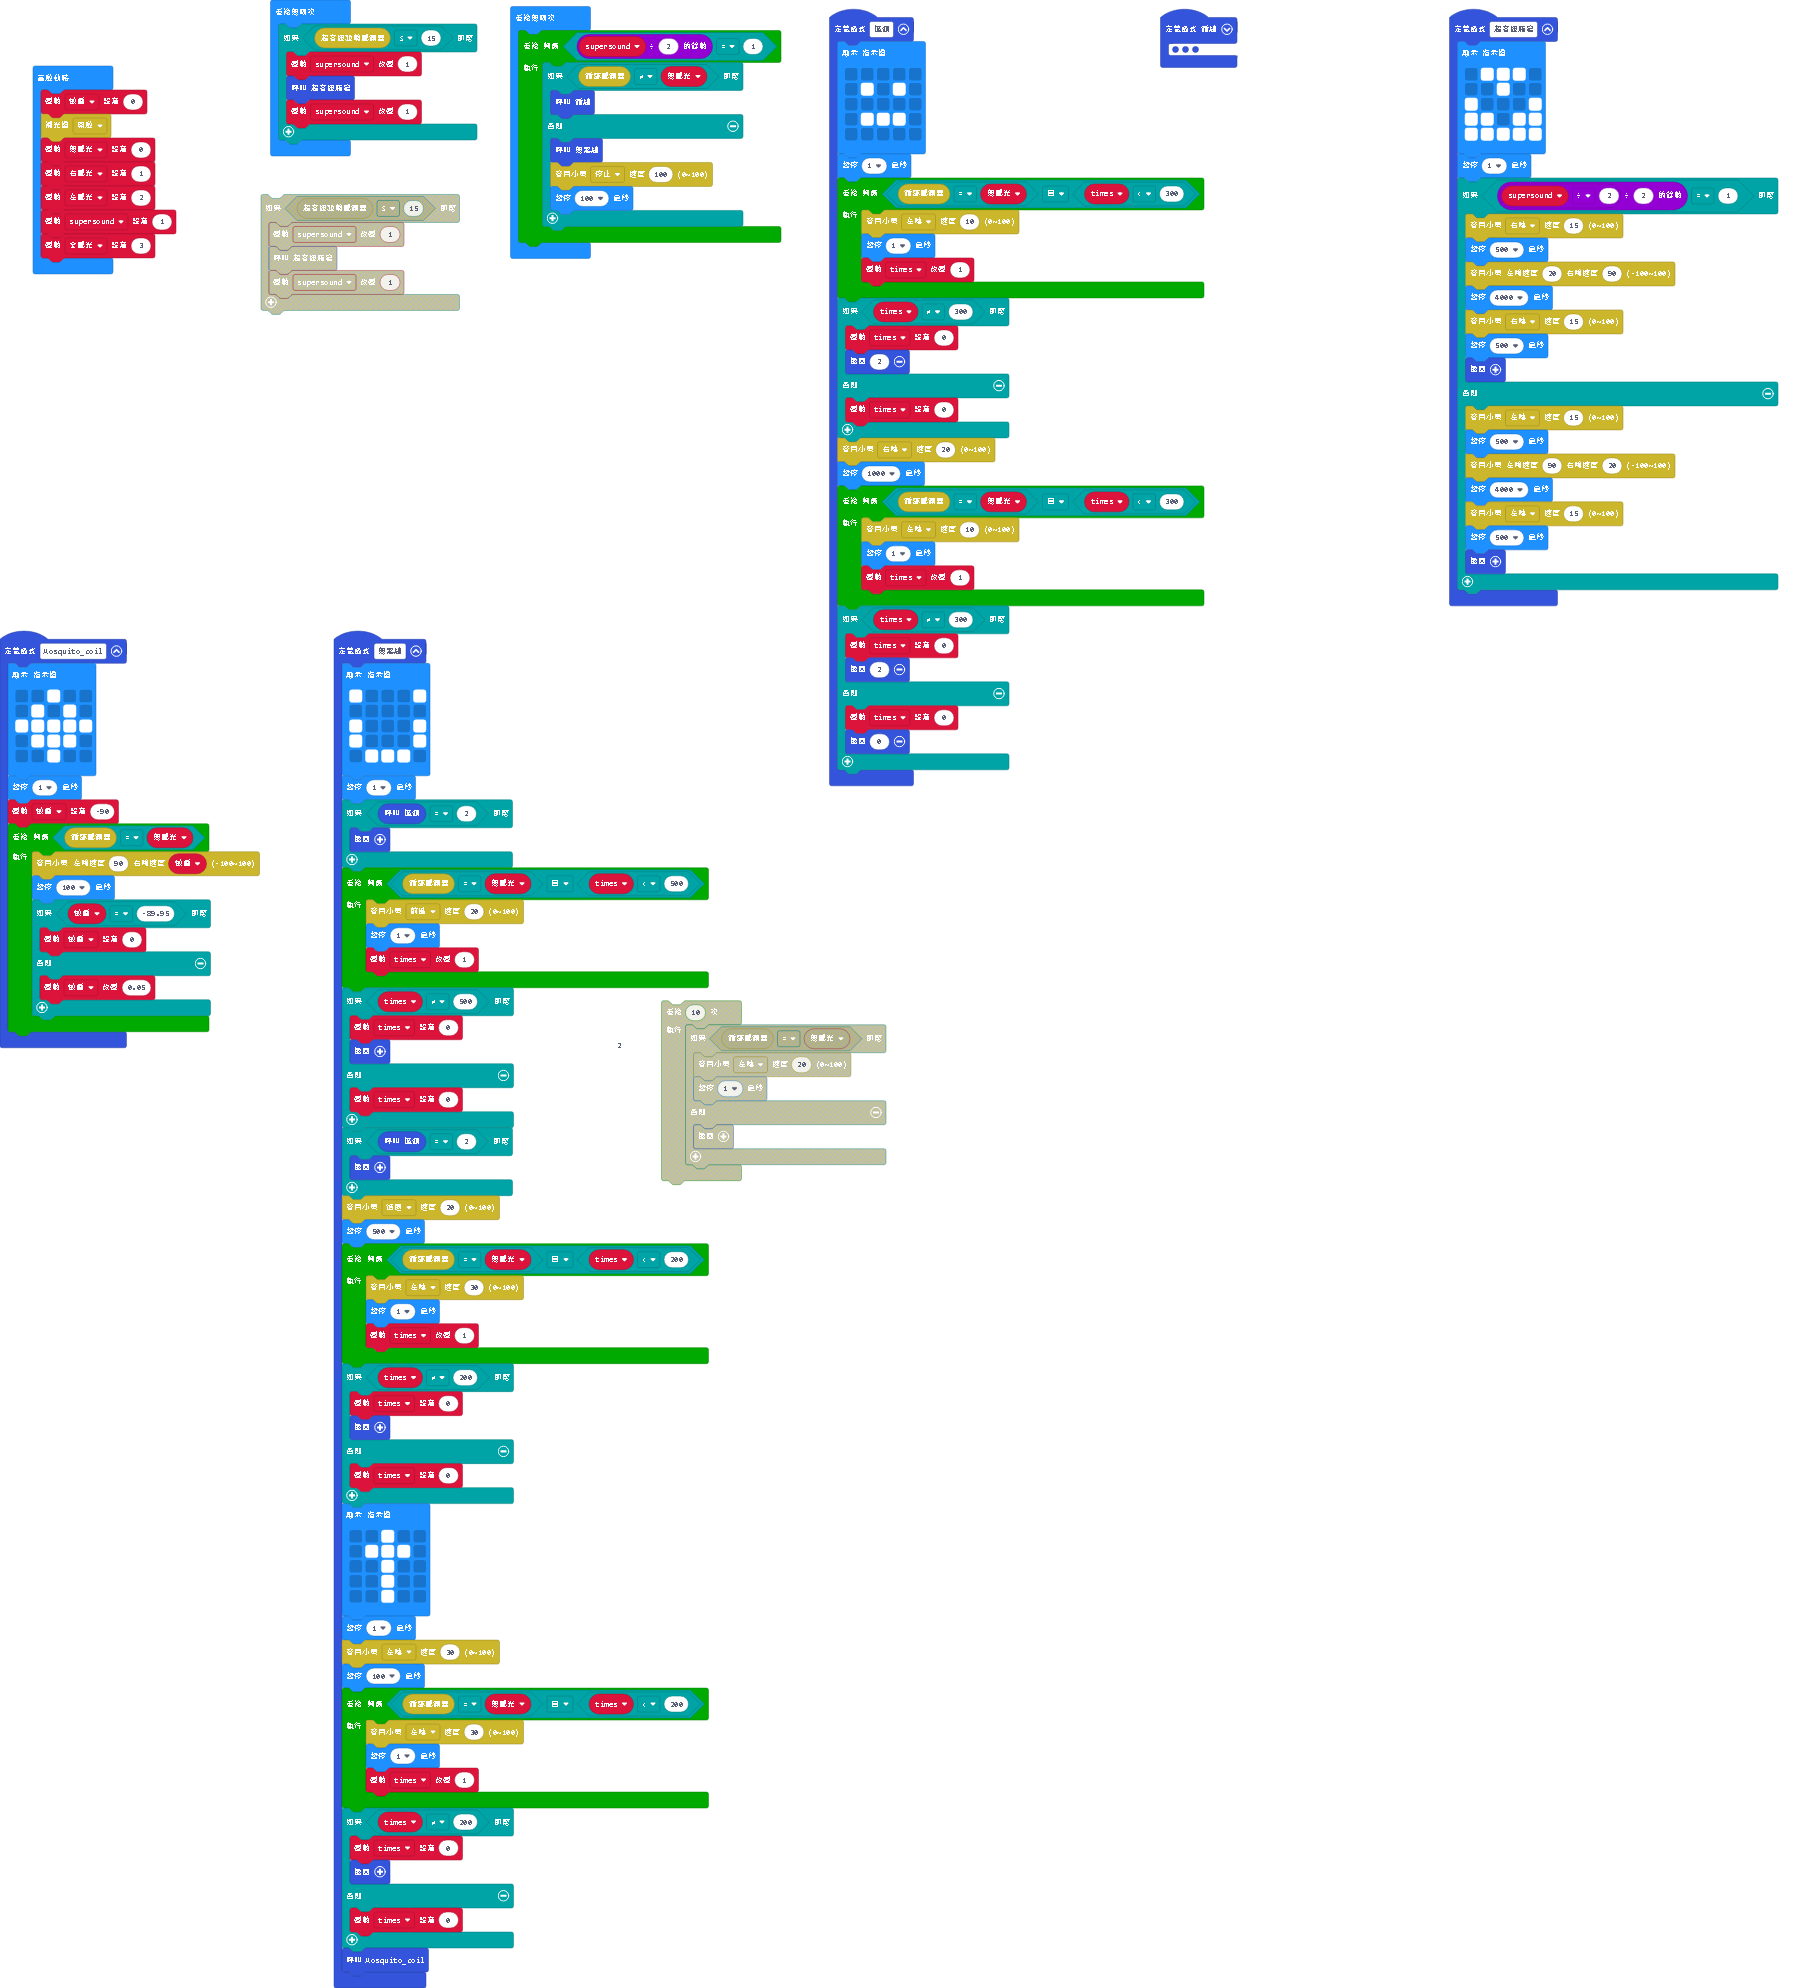
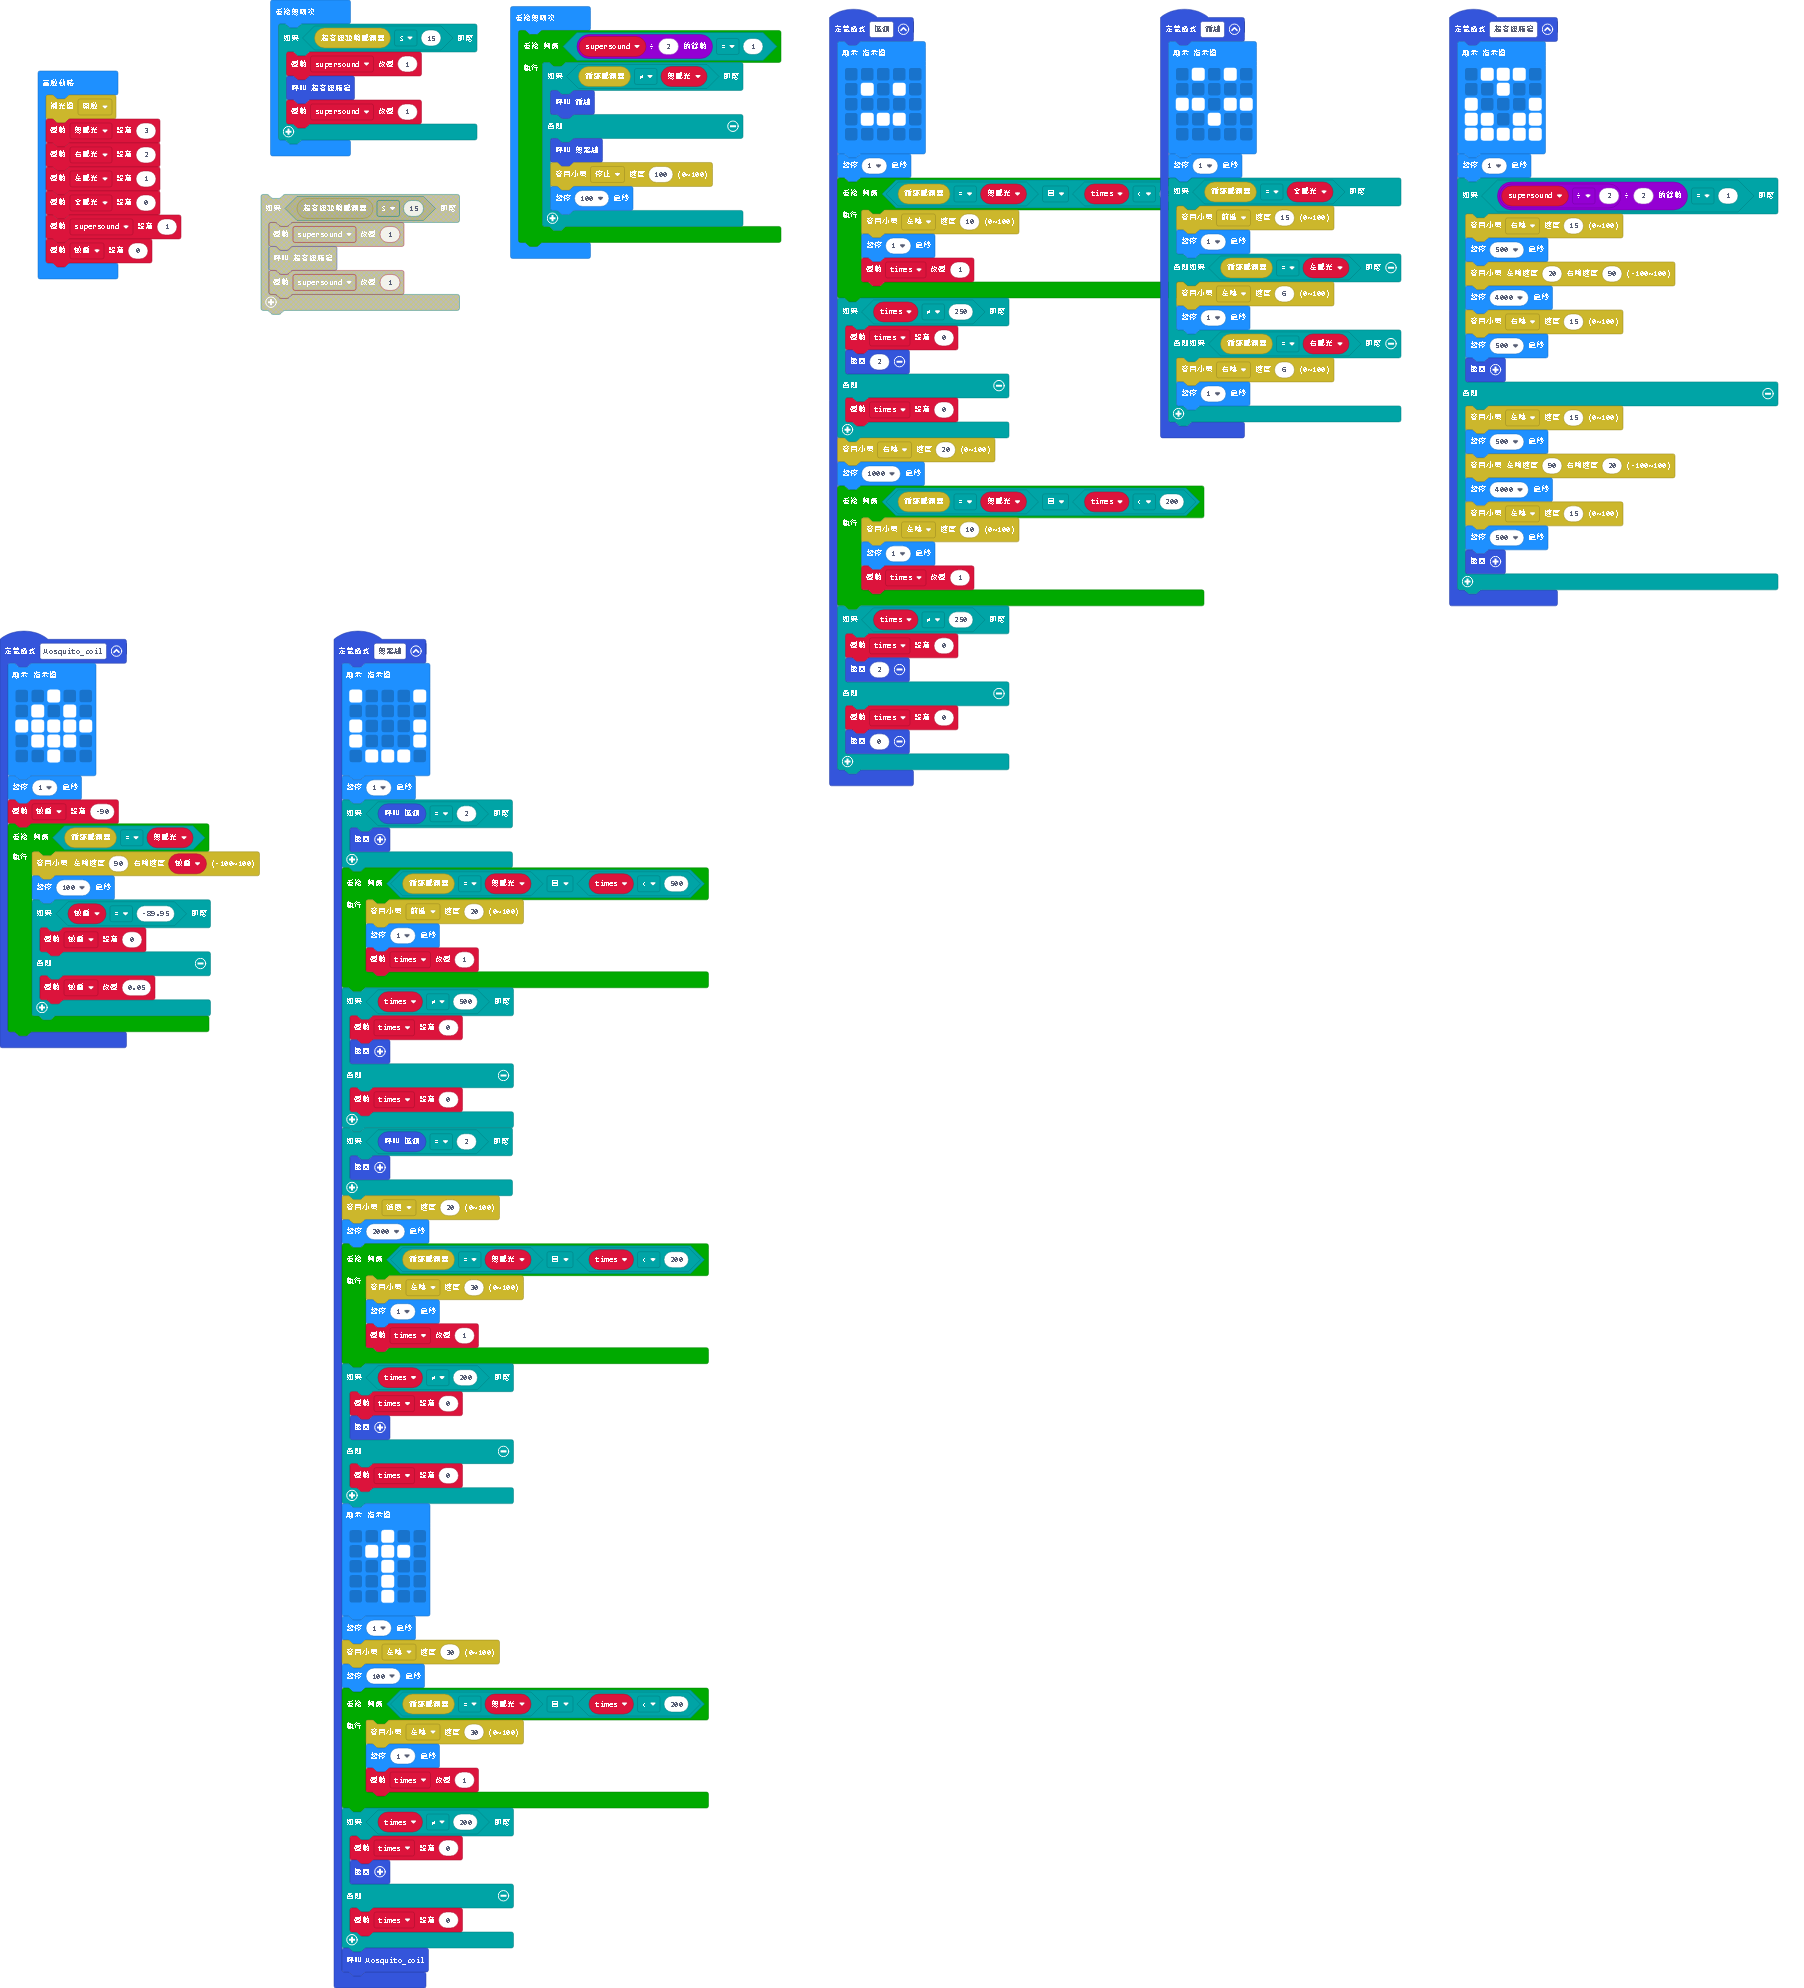
更新 main.blocks, main.ts, main.py

Changed region(s): [[0.6208, 0.0, 0.7761, 0.2183], [0.3415, 0.499, 0.4967, 0.5926], [0.0, 0.0312, 0.0931, 0.1559]]

diff --git a/main.ts b/main.ts
@@ -7,12 +7,12 @@ function 擺頭 () {
         . . . . .
         `)
     basic.pause(1)
-    while (mooncar.LineFollowerSensor() == 無感光 && times < 300) {
+    while (mooncar.LineFollowerSensor() == 無感光 && times < 250) {
         mooncar.MoonCarGo(mooncar.Direction.direct3, 10)
         basic.pause(1)
         times += 1
     }
-    if (times != 300) {
+    if (times != 250) {
         times = 0
         return 2
     } else {
@@ -20,12 +20,12 @@ function 擺頭 () {
     }
     mooncar.MoonCarGo(mooncar.Direction.direct4, 20)
     basic.pause(1000)
-    while (mooncar.LineFollowerSensor() == 無感光 && times < 300) {
+    while (mooncar.LineFollowerSensor() == 無感光 && times < 200) {
         mooncar.MoonCarGo(mooncar.Direction.direct3, 10)
         basic.pause(1)
         times += 1
     }
-    if (times != 300) {
+    if (times != 250) {
         times = 0
         return 2
     } else {
@@ -127,7 +127,7 @@ function 無黑線 () {
         return
     }
     mooncar.MoonCarGo(mooncar.Direction.direct2, 20)
-    basic.pause(500)
+    basic.pause(2000)
     while (mooncar.LineFollowerSensor() == 無感光 && times < 200) {
         mooncar.MoonCarGo(mooncar.Direction.direct3, 30)
         basic.pause(1)
@@ -163,19 +163,19 @@ function 無黑線 () {
     Mosquito_coil()
 }
 let times = 0
-let 全感光 = 0
+let 蚊香 = 0
 let supersound = 0
+let 全感光 = 0
 let 左感光 = 0
 let 右感光 = 0
 let 無感光 = 0
-let 蚊香 = 0
-蚊香 = 0
 mooncar.Filllight(mooncar.Switch.Open)
-無感光 = 0
-右感光 = 1
-左感光 = 2
+無感光 = 3
+右感光 = 2
+左感光 = 1
+全感光 = 0
 supersound = 1
-全感光 = 3
+蚊香 = 0
 basic.forever(function () {
     if (mooncar.UltrasonicSensor() <= 15) {
         supersound += 1

diff --git a/main.py b/main.py
@@ -8,22 +8,22 @@ def 擺頭():
                 . . . . .
     """)
     basic.pause(1)
-    while mooncar.line_follower_sensor() == 無感光 and times < 300:
+    while mooncar.line_follower_sensor() == 無感光 and times < 250:
         mooncar.moon_car_go(mooncar.Direction.DIRECT3, 10)
         basic.pause(1)
         times += 1
-    if times != 300:
+    if times != 250:
         times = 0
         return 2
     else:
         times = 0
     mooncar.moon_car_go(mooncar.Direction.DIRECT4, 20)
     basic.pause(1000)
-    while mooncar.line_follower_sensor() == 無感光 and times < 300:
+    while mooncar.line_follower_sensor() == 無感光 and times < 200:
         mooncar.moon_car_go(mooncar.Direction.DIRECT3, 10)
         basic.pause(1)
         times += 1
-    if times != 300:
+    if times != 250:
         times = 0
         return 2
     else:
@@ -114,7 +114,7 @@ def 無黑線():
     if 擺頭() == 2:
         return
     mooncar.moon_car_go(mooncar.Direction.DIRECT2, 20)
-    basic.pause(500)
+    basic.pause(2000)
     while mooncar.line_follower_sensor() == 無感光 and times < 200:
         mooncar.moon_car_go(mooncar.Direction.DIRECT3, 30)
         basic.pause(1)
@@ -145,19 +145,19 @@ def 無黑線():
         times = 0
     Mosquito_coil()
 times = 0
-全感光 = 0
+蚊香 = 0
 supersound = 0
+全感光 = 0
 左感光 = 0
 右感光 = 0
 無感光 = 0
-蚊香 = 0
-蚊香 = 0
 mooncar.filllight(mooncar.Switch.OPEN)
 無感光 = 3
 右感光 = 2
 左感光 = 1
-supersound = 1
 全感光 = 0
+supersound = 1
+蚊香 = 0
 
 def on_forever():
     global supersound
@@ -176,3 +176,4 @@ def on_forever2():
             mooncar.moon_car_go(mooncar.Direction.DIRECT5, 100)
             basic.pause(100)
 basic.forever(on_forever2)
+
